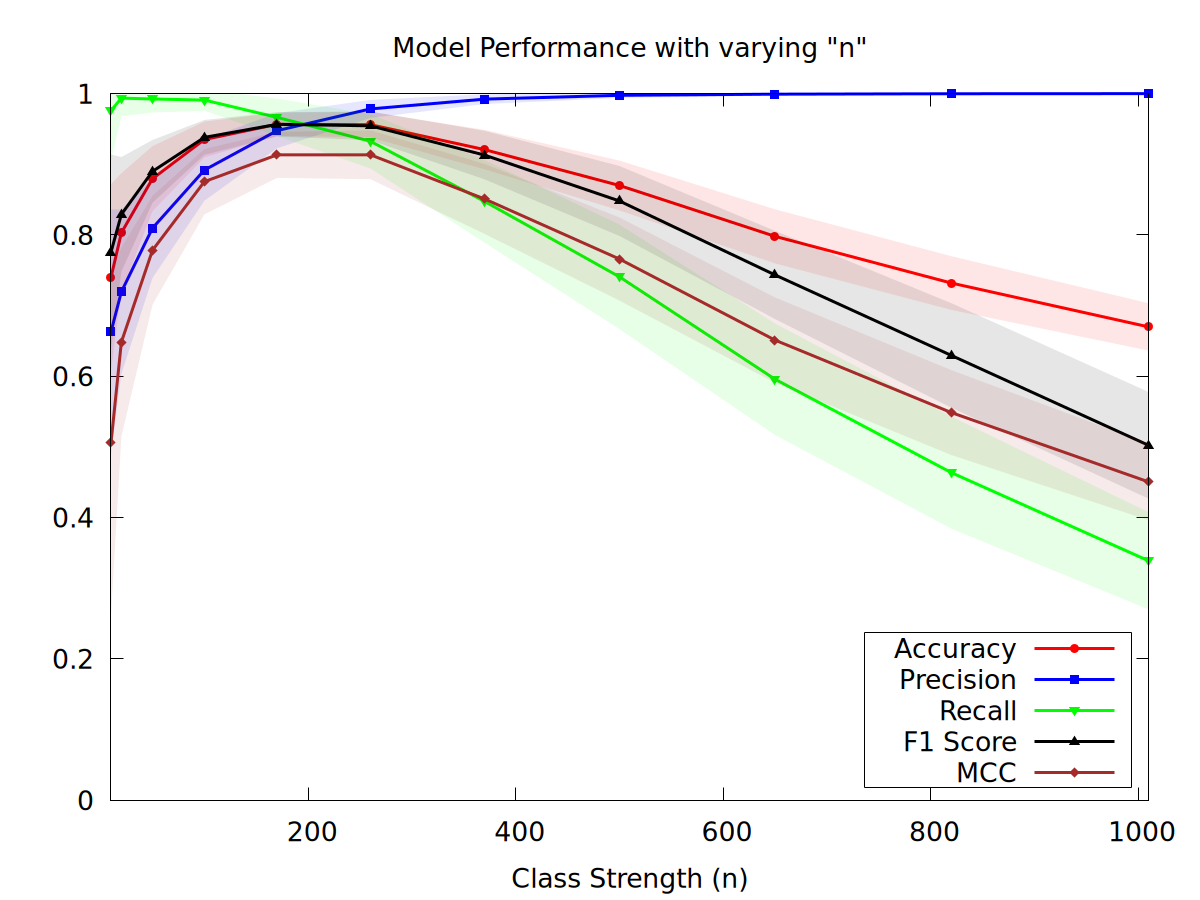
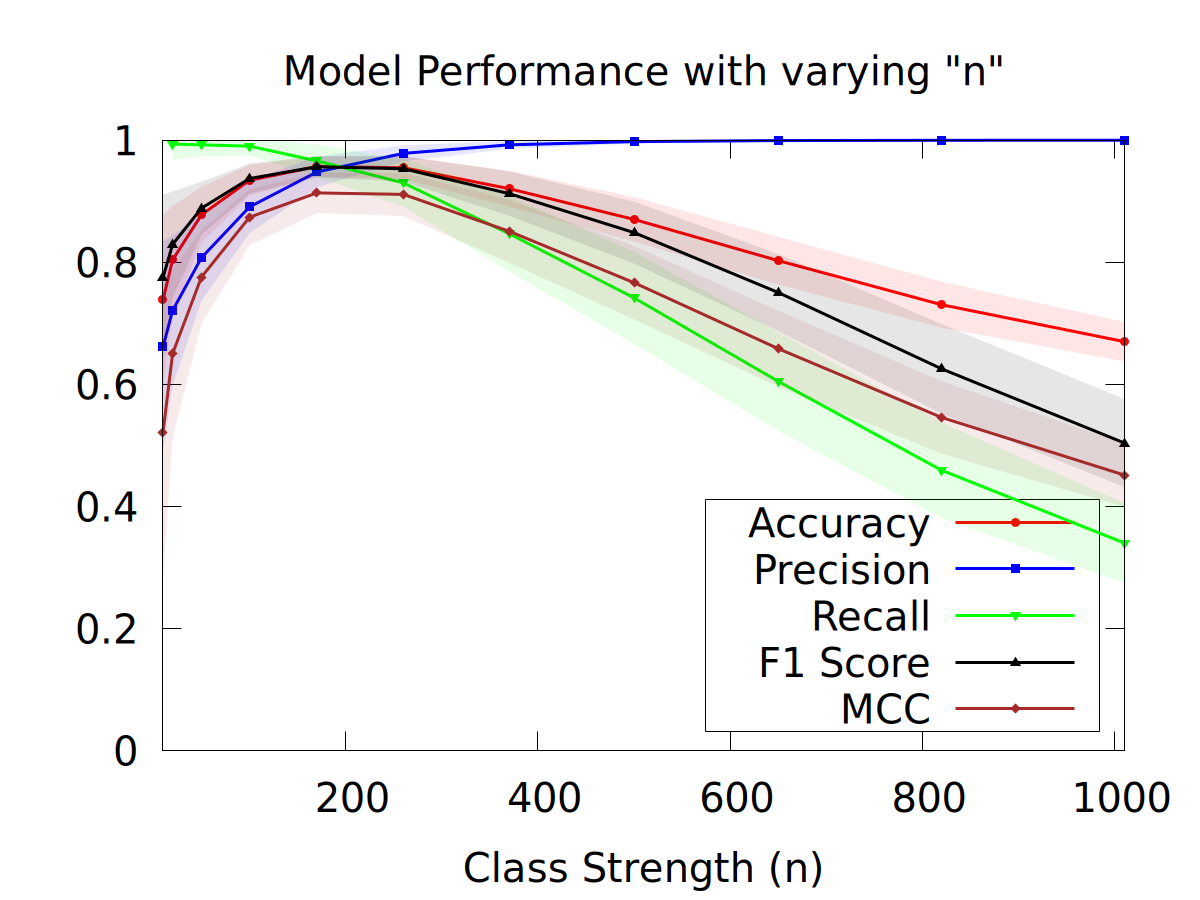
Added method to fit linear model between n and other variables. Updated final results

diff --git a/src/main.cpp b/src/main.cpp
@@ -151,6 +151,27 @@ inline std::pair<Stats, Stats> experiment(int n, float m, float k, float a, floa
     return {mean, std};
 }
 
+// Function to compute the least squares coefficient for a given variable
+template<typename T1, typename T2>
+inline void fitLinear(const std::vector<T1> &x, std::vector<std::vector<T2>> &y, std::string var_name)
+{
+    std::string metric[5] = {"Accuracy", "Precision", "Recall", "F1-Score", "MCC"};
+
+    for (int i = 0; i < y.size(); i++)
+    {
+        double sum_x = 0.0, sum_x2 = 0.0, sum_y = 0.0, sum_xy = 0.0;
+        for (int j = 0; j < x.size(); j++)
+        {
+            sum_x += x[j];
+            sum_x2 += x[j] * x[j];
+            sum_y += y[i][j];
+            sum_xy += x[j] * y[i][j];
+        }
+        double c = sum_xy / sum_x2;
+        std::cout << var_name << " varies as (" << c << " * n) when optimizing for " << metric[i] << std::endl;
+    }
+}
+
 void display_help(const std::string &program_name)
 {
     std::cout << "Usage: " << program_name << " [options]\n"
@@ -1116,10 +1137,10 @@ int main(int argc, char *argv[])
         std::vector<std::vector<double>> f1_std(5, std::vector<double>(11, 0));
         std::vector<std::vector<double>> mcc_std(5, std::vector<double>(11, 0));
 
-        std::vector<std::vector<float>> best_a(5, std::vector<float>(11));
-        std::vector<std::vector<float>> best_k(5, std::vector<float>(11));
-        std::vector<std::vector<float>> best_m(5, std::vector<float>(11));
-        std::vector<std::vector<float>> best_b(5, std::vector<float>(11));
+        std::vector<std::vector<int>> best_a(5, std::vector<int>(11));
+        std::vector<std::vector<int>> best_k(5, std::vector<int>(11));
+        std::vector<std::vector<int>> best_m(5, std::vector<int>(11));
+        std::vector<std::vector<int>> best_b(5, std::vector<int>(11));
 
         std::string variable = "n";
 
@@ -1153,10 +1174,10 @@ int main(int argc, char *argv[])
                 int t = omp_get_thread_num();
                 // std::cout << "Thread " << t << " : " << i << ", " << cnt << std::endl;
 
-                a = ((float) v[0]) / ((float) n);
-                m = ((float) v[1]) / ((float) n);
-                k = ((float) v[2]) / ((float) n);
-                b = ((float) v[3]) / ((float) n);
+                a = ((float)v[0]) / ((float)n);
+                m = ((float)v[1]) / ((float)n);
+                k = ((float)v[2]) / ((float)n);
+                b = ((float)v[3]) / ((float)n);
                 std::pair<Stats, Stats> result = experiment(n, m, k, a, p, q, r, seed, b);
                 if (result.first.accuracy > best_result[t][0].first.accuracy)
                 {
@@ -1423,6 +1444,11 @@ int main(int argc, char *argv[])
             for (int i = 0; i < x.size(); i++)
                 fout << x[i] << "," << best_a[j][i] << "," << best_m[j][i] << "," << best_k[j][i] << "," << best_b[j][i] << std::endl;
         }
+
+        fitLinear(x, best_a, "a");
+        fitLinear(x, best_m, "m");
+        fitLinear(x, best_k, "k");
+        fitLinear(x, best_b, "b");
     }
 
     return 0;
